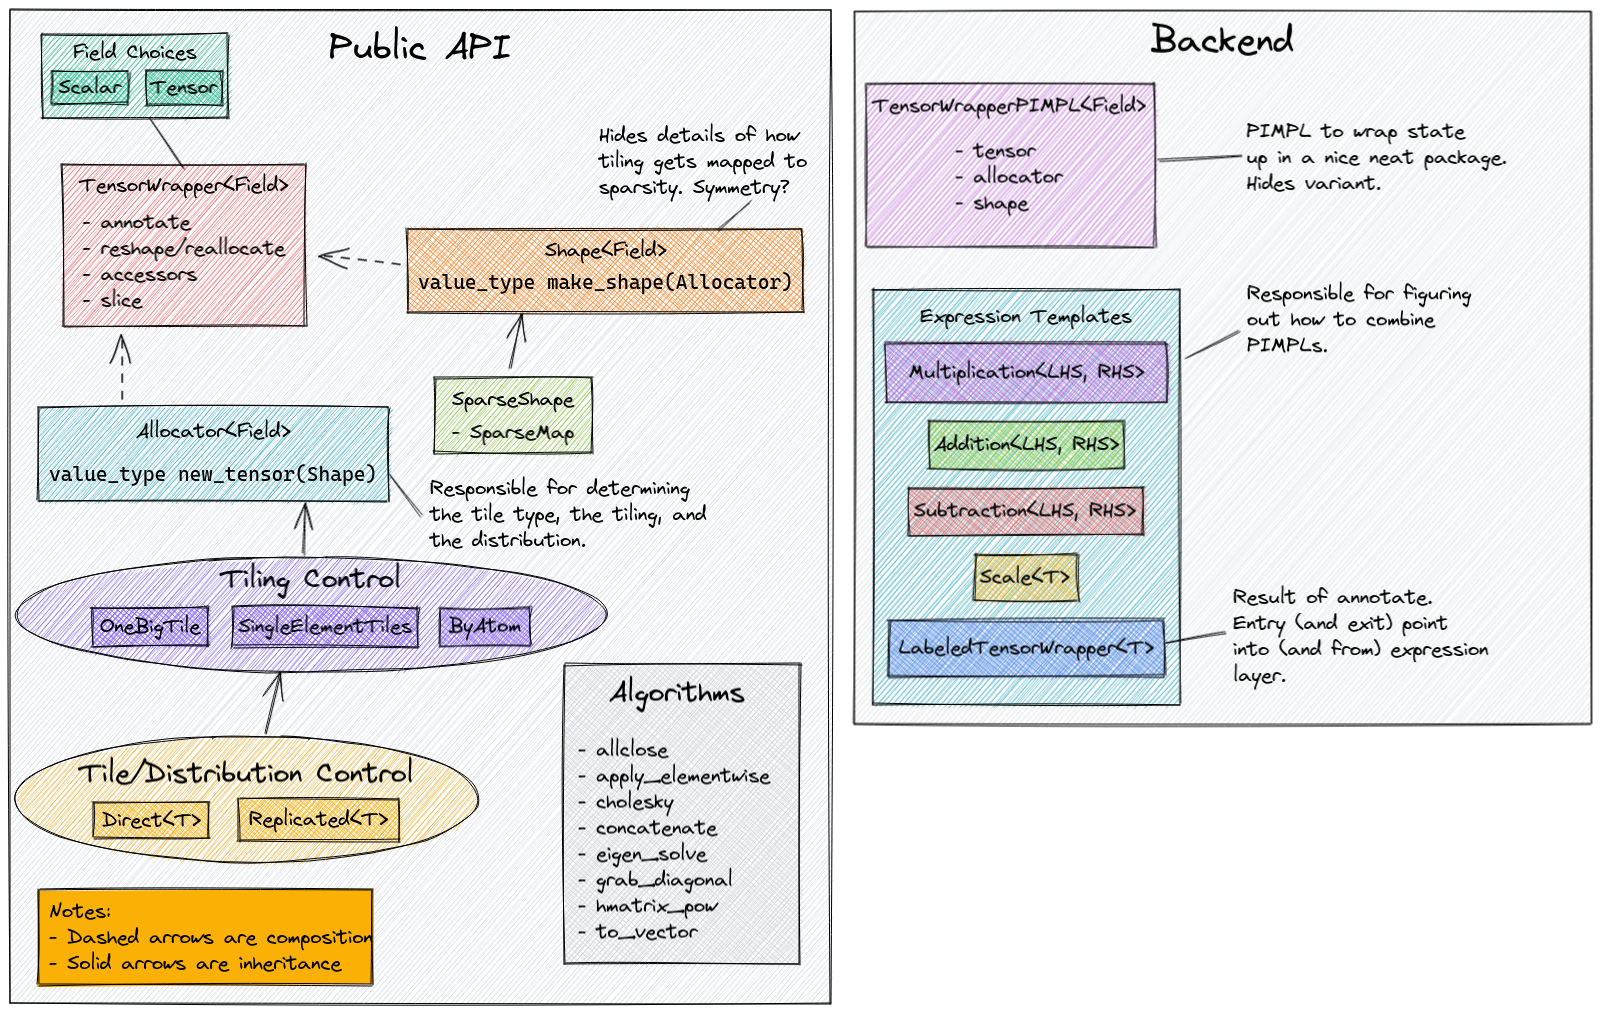
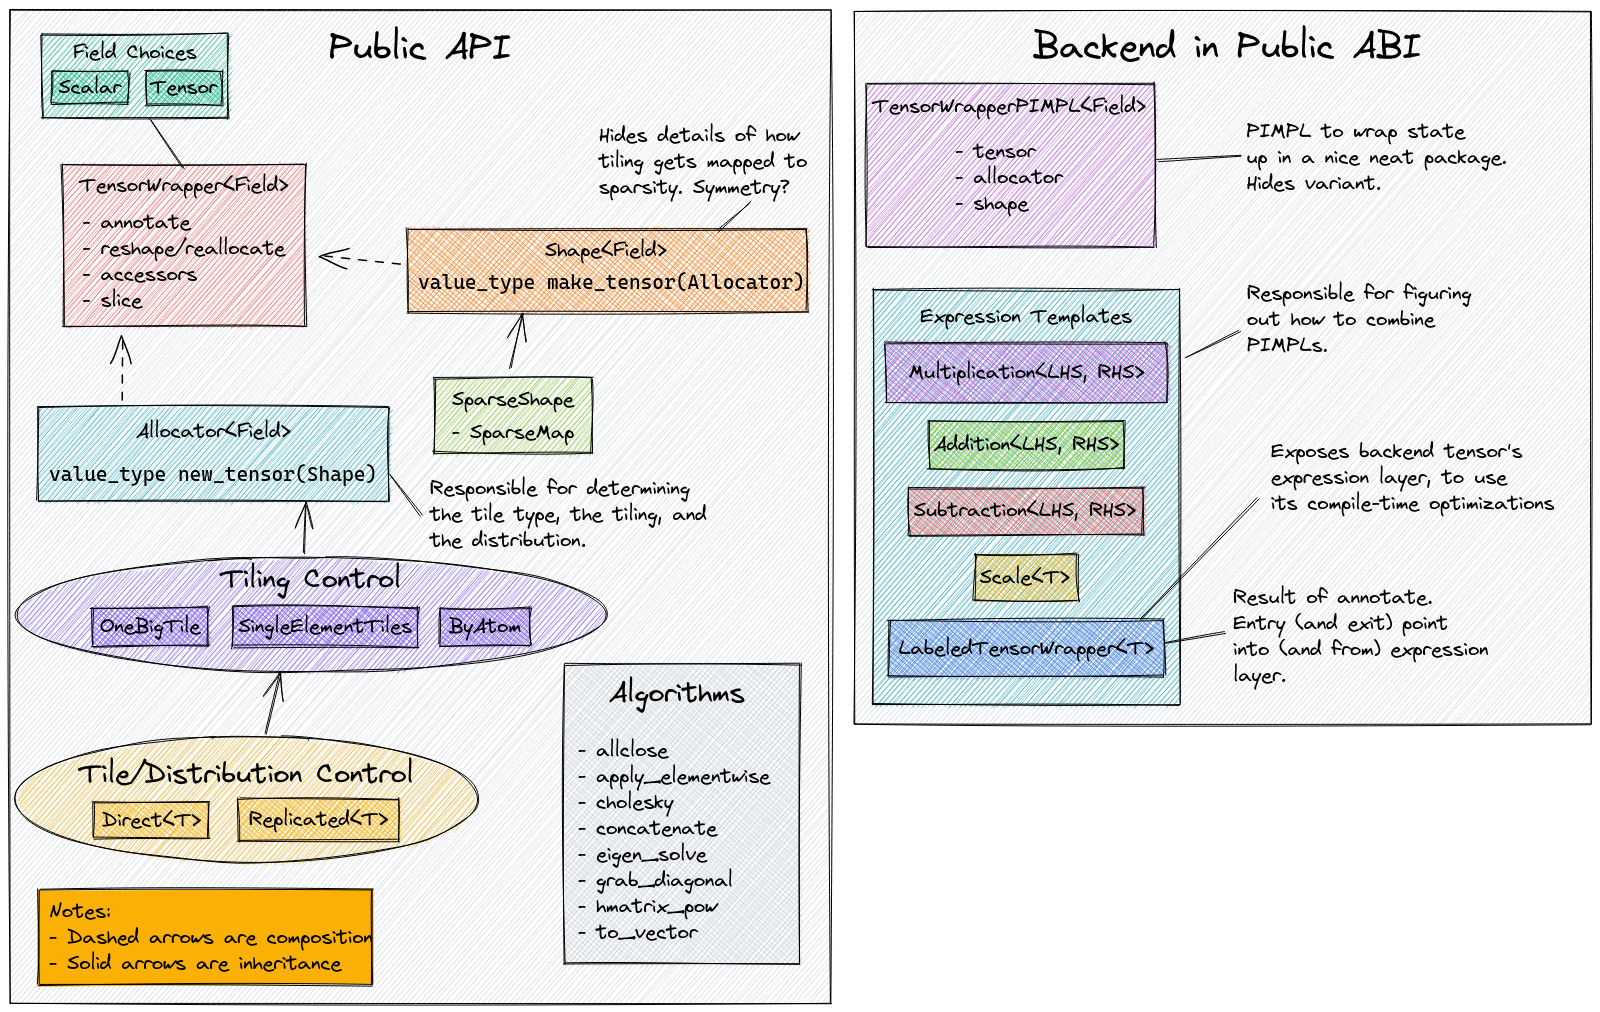
back-up [skip ci]

diff --git a/tests/tensor/detail_/pimpl.cpp b/tests/tensor/detail_/pimpl.cpp
@@ -44,14 +44,17 @@ TEST_CASE("TensorWrapperPIMPL") {
     SECTION("CTors") {
         SECTION("No Shape") {
             REQUIRE(v.allocator() == *alloc);
+            REQUIRE(v.shape() == *v_shape);
             REQUIRE(std::get<0>(v.variant()) == tensors.at("vector"));
             REQUIRE(v.size() == 3);
 
             REQUIRE(m.allocator() == *alloc);
+            REQUIRE(m.shape() == *m_shape);
             REQUIRE(std::get<0>(m.variant()) == tensors.at("matrix"));
             REQUIRE(m.size() == 4);
 
             REQUIRE(t.allocator() == *alloc);
+            REQUIRE(t.shape() == *t_shape);
             REQUIRE(std::get<0>(t.variant()) == tensors.at("tensor"));
             REQUIRE(t.size() == 8);
 
@@ -69,18 +72,56 @@ TEST_CASE("TensorWrapperPIMPL") {
 
         SECTION("With shape") {
             REQUIRE(v2.allocator() == *alloc);
+            REQUIRE(v2.shape() == *v_shape);
             REQUIRE(std::get<0>(v2.variant()) == tensors.at("vector"));
             REQUIRE(v2.size() == 3);
 
             REQUIRE(m2.allocator() == *alloc);
+            REQUIRE(m2.shape() == *m_shape);
             REQUIRE(std::get<0>(m2.variant()) == tensors.at("matrix"));
             REQUIRE(m2.size() == 4);
 
             REQUIRE(t2.allocator() == *alloc);
+            REQUIRE(t2.shape() == *t_shape);
             REQUIRE(std::get<0>(t2.variant()) == tensors.at("tensor"));
             REQUIRE(t2.size() == 8);
 
-            // TODO: Check that it resizes
+            SECTION("Reshapes if necessary") {
+                extents_type four{4};
+                auto new_shape = std::make_unique<shape_type>(four);
+                auto tr        = alloc->make_tiled_range(four);
+                ta_tensor_type corr(alloc->runtime(), tr, {1, 2, 3, 4});
+
+                pimpl_type m3(matrix, new_shape->clone(), alloc->clone());
+                REQUIRE(m3.allocator() == *alloc);
+                REQUIRE(m3.shape() == *new_shape);
+                REQUIRE(std::get<0>(m3.variant()) == corr);
+                REQUIRE(m3.size() == 4);
+            }
+
+            SECTION("Applies sparsity if needed") {
+                using single_tiles    = SingleElementTiles<field_type>;
+                using sparse_shape    = SparseShape<field_type>;
+                using sparse_map_type = typename sparse_shape::sparse_map_type;
+                using index_type      = typename sparse_map_type::key_type;
+
+                auto new_alloc = std::make_unique<single_tiles>();
+                extents_type two{2, 2};
+                auto tr     = new_alloc->make_tiled_range(two);
+                auto& world = new_alloc->runtime();
+                variant_type input{ta_tensor_type(world, tr, {{1, 2}, {3, 4}})};
+                ta_tensor_type corr(world, tr, {{1, 0}, {3, 0}});
+
+                index_type i0{0}, i1{1};
+                sparse_map_type sm{{i0, {i0}}, {i1, {i0}}};
+                auto new_shape = std::make_unique<sparse_shape>(two, sm);
+
+                pimpl_type m3(input, new_shape->clone(), new_alloc->clone());
+                REQUIRE(m3.allocator() == *new_alloc);
+                REQUIRE(m3.shape() == *new_shape);
+                REQUIRE(std::get<0>(m3.variant()) == corr);
+                REQUIRE(m3.size() == 4);
+            }
 
             SECTION("Reallocates if necessary") {
                 auto new_alloc = std::make_unique<other_alloc>();
@@ -89,17 +130,33 @@ TEST_CASE("TensorWrapperPIMPL") {
 
                 pimpl_type v3(vector, v_shape->clone(), new_alloc->clone());
                 REQUIRE(v3.allocator() == *alloc);
+                REQUIRE(v3.shape() == *v_shape);
                 REQUIRE(std::get<0>(v3.variant()) == corr);
                 REQUIRE(v3.size() == 3);
             }
         }
 
-        SECTION("clone") {}
+        SECTION("clone") {
+            auto v_copy = v.clone();
+            REQUIRE(*v_copy == v);
+            // Make sure we didn't just alias
+            REQUIRE(&v_copy->allocator() != &v.allocator());
+            REQUIRE(&v_copy->shape() != &v.shape());
+
+            REQUIRE(*(m.clone()) == m);
+            REQUIRE(*(t.clone()) == t);
+        }
     }
 
     SECTION("Allocator") {
         REQUIRE(v.allocator() == *alloc);
         REQUIRE(m.allocator() == *alloc);
         REQUIRE(t.allocator() == *alloc);
+    }
+
+    SECTION("Shape") {
+        REQUIRE(v.shape() == *v_shape);
+        REQUIRE(m.shape() == *m_shape);
+        REQUIRE(t.shape() == *t_shape);
     }
 }

diff --git a/src/chemist/tensor/detail_/pimpl.cpp b/src/chemist/tensor/detail_/pimpl.cpp
@@ -45,15 +45,16 @@ PIMPL_TYPE::TensorWrapperPIMPL(variant_type v, allocator_pointer p) :
   m_allocator_(std::move(p)),
   m_shape_(std::make_unique<shape_type>(make_extents(m_tensor_))) {
     reallocate_(*m_allocator_);
-    reshape_(*m_shape_);
 }
 
 template<typename FieldType>
 PIMPL_TYPE::TensorWrapperPIMPL(variant_type v, shape_pointer s,
                                allocator_pointer p) :
-  m_tensor_(std::move(v)), m_allocator_(std::move(p)), m_shape_(std::move(s)) {
+  m_tensor_(std::move(v)),
+  m_allocator_(std::move(p)),
+  m_shape_(std::make_unique<shape_type>(make_extents(m_tensor_))) {
     reallocate_(*m_allocator_);
-    reshape_(*m_shape_);
+    reshape(std::move(s));
 }
 
 template<typename FieldType>
@@ -68,6 +69,12 @@ template<typename FieldType>
 typename PIMPL_TYPE::const_allocator_reference PIMPL_TYPE::allocator() const {
     if(m_allocator_) return *m_allocator_;
     throw std::runtime_error("Tensor has no allocator!!!!");
+}
+
+template<typename FieldType>
+typename PIMPL_TYPE::const_shape_reference PIMPL_TYPE::shape() const {
+    if(m_shape_) return *m_shape_;
+    throw std::runtime_error("Tensor has no shape!!!!");
 }
 
 template<typename FieldType>
@@ -160,12 +167,25 @@ std::ostream& PIMPL_TYPE::print(std::ostream& os) const {
 
 template<typename FieldType>
 void PIMPL_TYPE::hash(pluginplay::Hasher& h) const {
+    h(m_shape_, m_allocator_);
     auto l = [&](auto&& arg) { h(arg); };
     std::visit(l, m_tensor_);
 }
 
 template<typename FieldType>
 bool PIMPL_TYPE::operator==(const TensorWrapperPIMPL& rhs) const {
+    // Compare shapes
+    if(m_shape_ && rhs.m_shape_) {
+        if(!m_shape_->is_equal(*rhs.m_shape_)) return false;
+    } else if(!m_shape_ != !rhs.m_shape_)
+        return false;
+
+    // Compare allocators
+    if(m_allocator_ && rhs.m_allocator_) {
+        if(!m_allocator_->is_equal(*rhs.m_allocator_)) return false;
+    } else if(!m_allocator_ != !rhs.m_allocator_)
+        return false;
+
     auto l = [&](auto&& lhs) {
         auto m = [&](auto&& rhs) { return lhs == rhs; };
         return std::visit(m, rhs.m_tensor_);
@@ -187,7 +207,19 @@ void PIMPL_TYPE::reshape_(const shape_type& other) {
     // If the extents aren't the same we're shuffling elements around
     if(shape != extents()) shuffle_(shape);
 
-    // TODO: Compare derived states
+    // TODO: This is basically a hack to compare the sparsities
+    auto ta_tensor = other.make_tensor(*m_allocator_);
+
+    auto l = [&](auto&& old_tensor) {
+        auto m = [&](auto&& new_tensor) {
+            if(old_tensor.shape() == new_tensor.shape()) return;
+            const auto& new_shape = new_tensor.shape();
+            auto dummy_idx        = make_annotation("j");
+            old_tensor(dummy_idx) = old_tensor(dummy_idx).set_shape(new_shape);
+        };
+        std::visit(m, ta_tensor);
+    };
+    std::visit(l, m_tensor_);
 }
 
 template<typename FieldType>

diff --git a/include/chemist/tensor/allocators/allocator.hpp b/include/chemist/tensor/allocators/allocator.hpp
@@ -201,6 +201,14 @@ public:
       const n_d_initializer_list_t<scalar_type, 4>& il) const;
     ///@}
 
+    /** @brief Polymorphically hashes this allocator instance.
+     *
+     *  @param[in,out] h The instance to use for the hashing. After this call
+     *                   @p h will contain a hash of the present allocator.
+     *
+     */
+    void hash(pluginplay::Hasher& h) const { return hash_(h); }
+
     /** @brief Non-polymorphically compares two Allocators for equality.
      *
      *  This is a non-polymorphic comparison of two Allocator instances, meaning
@@ -249,6 +257,17 @@ public:
 protected:
     /// To help derived classes implement clone_
     Allocator(const Allocator&) = default;
+
+    /** @brief Hook for polymorphically hashing an Allocator.
+     *
+     *  The derived class is responsible for hashing any state it adds to the
+     *  allocator and then calling the `hash_` of the class below it.
+     *
+     *  @param[in,out] h The instance being used to hash. After this call @p h
+     *                   will contain a hash of this allocator instance.
+     *
+     */
+    virtual void hash_(pluginplay::Hasher& h) const;
 
 private:
     /// Deleted to avoid slicing
@@ -366,6 +385,11 @@ typename Allocator<FieldType>::value_type Allocator<FieldType>::new_tensor(
 template<typename FieldType>
 bool Allocator<FieldType>::is_equal_(const Allocator& rhs) const noexcept {
     return *this == rhs;
+}
+
+template<typename FieldType>
+void Allocator<FieldType>::hash_(pluginplay::Hasher& h) const {
+    // h(m_world_);
 }
 
 } // namespace chemist::tensor

diff --git a/include/chemist/tensor/detail_/pimpl.hpp b/include/chemist/tensor/detail_/pimpl.hpp
@@ -56,6 +56,9 @@ public:
     /// Type of a pointer to the shape's base class
     using shape_pointer = typename parent_type::shape_pointer;
 
+    /// Type of a read-only reference to a shape
+    using const_shape_reference = typename parent_type::const_shape_reference;
+
     /// Type used to describe the shape (will be removed in forthcoming PR)
     using extents_type = typename parent_type::extents_type;
 
@@ -111,9 +114,19 @@ public:
      *
      *  @return The allocator used for the tensor.
      *
-     *  @throw std::runtime_error if the instance does not
+     *  @throw std::runtime_error if the instance does not have one.
      */
     const_allocator_reference allocator() const;
+
+    /** @brief Returns the shape in a read-only state.
+     *
+     *  This function is used to retrieve the shape of the tensor.
+     *
+     *  @return The shape of the tensor.
+     *
+     *  @throw std::runtime_error if the instance does not have one.
+     */
+    const_shape_reference shape() const;
 
     /** @brief Annotates the modes of the wrapped index with
      * the provided labels.

diff --git a/include/chemist/tensor/allocators/single_element_tiles.hpp b/include/chemist/tensor/allocators/single_element_tiles.hpp
@@ -43,6 +43,8 @@ protected:
     /// Copy ctor is used to implement clone, but shouldn't be called otherwise
     SingleElementTiles(const SingleElementTiles&) = default;
 
+    virtual void hash_(pluginplay::Hasher& h) const override;
+
 private:
     /// Implement the Allocator interface
     ///@{
@@ -90,6 +92,11 @@ bool SingleElementTiles<VariantType>::is_equal_(
     const auto* prhs = dynamic_cast<const my_type*>(&rhs);
     if(!prhs) return false;
     return base_type::operator==(rhs);
+}
+
+template<typename VariantType>
+void SingleElementTiles<VariantType>::hash_(pluginplay::Hasher& h) const {
+    base_type::hash_(h);
 }
 
 } // namespace chemist::tensor

diff --git a/include/chemist/tensor/allocators/one_big_tile.hpp b/include/chemist/tensor/allocators/one_big_tile.hpp
@@ -49,6 +49,8 @@ protected:
     /// Defaulted copy ctor, used to implement clone_
     OneBigTile(const OneBigTile&) = default;
 
+    virtual void hash_(pluginplay::Hasher& h) const override;
+
 private:
     /// Implement the Allocator interface
     ///@{
@@ -92,6 +94,11 @@ bool OneBigTile<VariantType>::is_equal_(const base_type& rhs) const noexcept {
     const auto* prhs = dynamic_cast<const my_type*>(&rhs);
     if(!prhs) return false;
     return base_type::operator==(rhs);
+}
+
+template<typename VariantType>
+void OneBigTile<VariantType>::hash_(pluginplay::Hasher& h) const {
+    base_type::hash_(h);
 }
 
 } // namespace chemist::tensor

diff --git a/include/chemist/tensor/tensor_wrapper.hpp b/include/chemist/tensor/tensor_wrapper.hpp
@@ -144,6 +144,9 @@ public:
     /// Type of a pointer to a shape
     using shape_pointer = std::unique_ptr<shape_type>;
 
+    /// Type of a read-only reference to a shape
+    using const_shape_reference = const shape_type&;
+
     /// Type used for returning the extents
     using extents_type = typename shape_type::extents_type;
 
@@ -425,6 +428,8 @@ public:
      * the tensor.
      */
     extents_type extents() const;
+
+    const_shape_reference shape() const;
 
     /** @brief Returns the number of elements in this tensor.
      *
